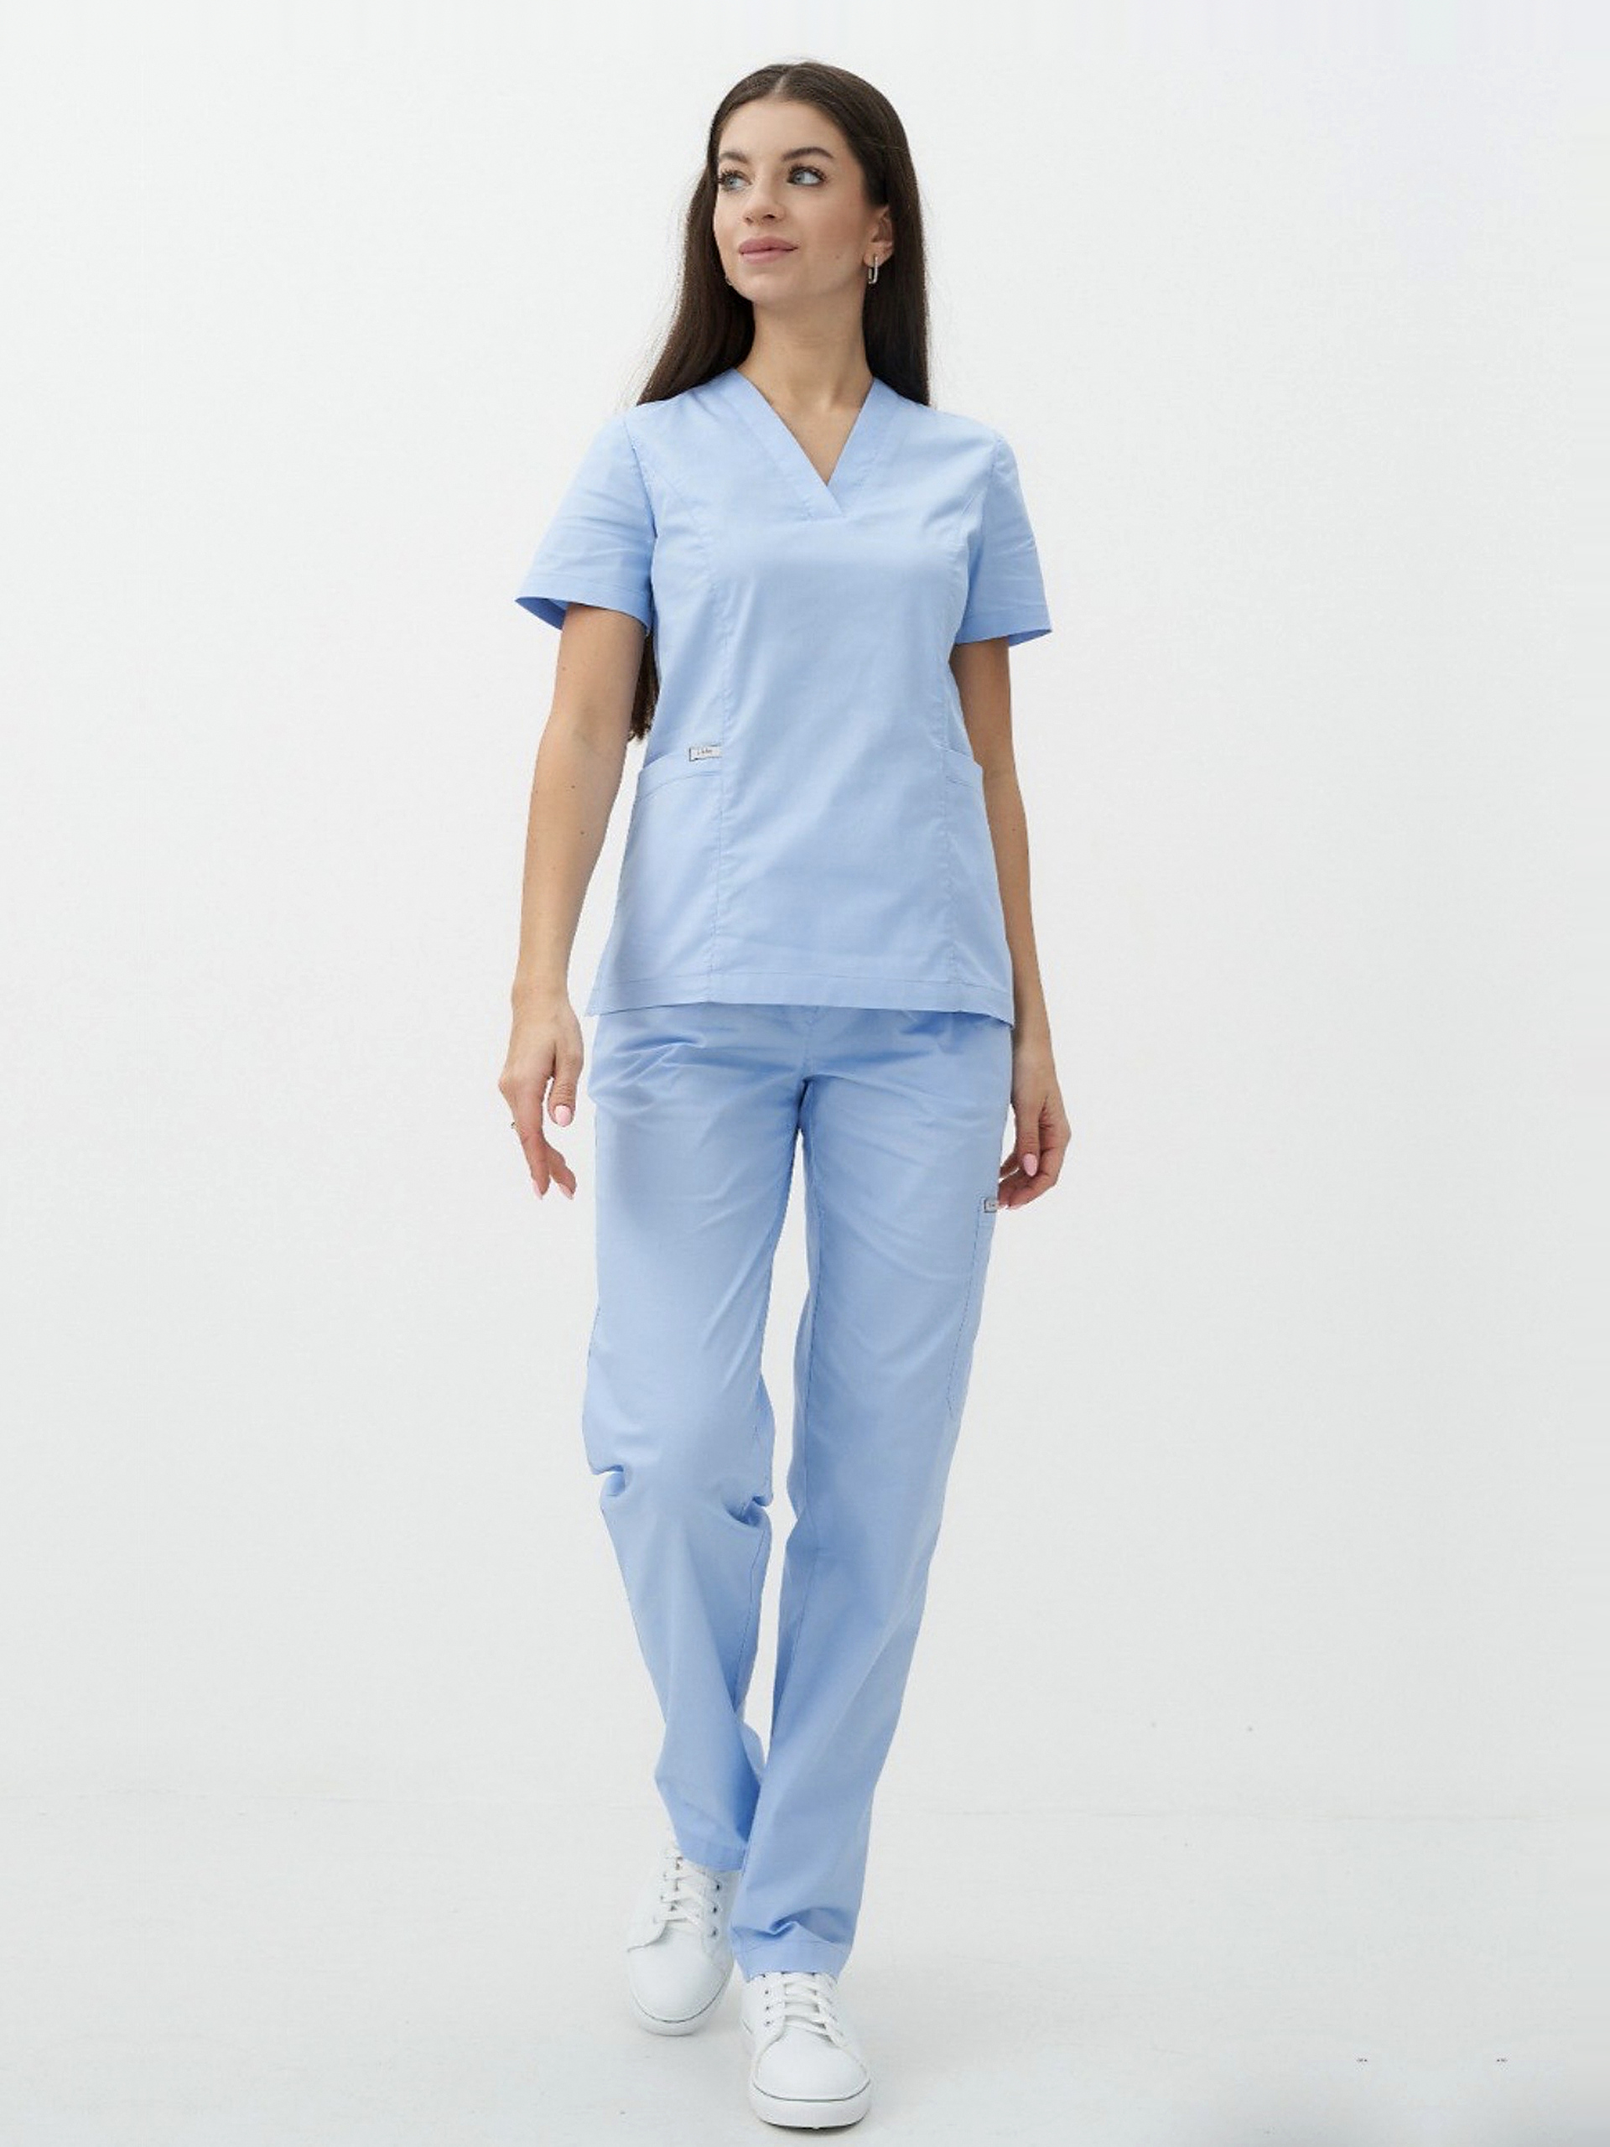
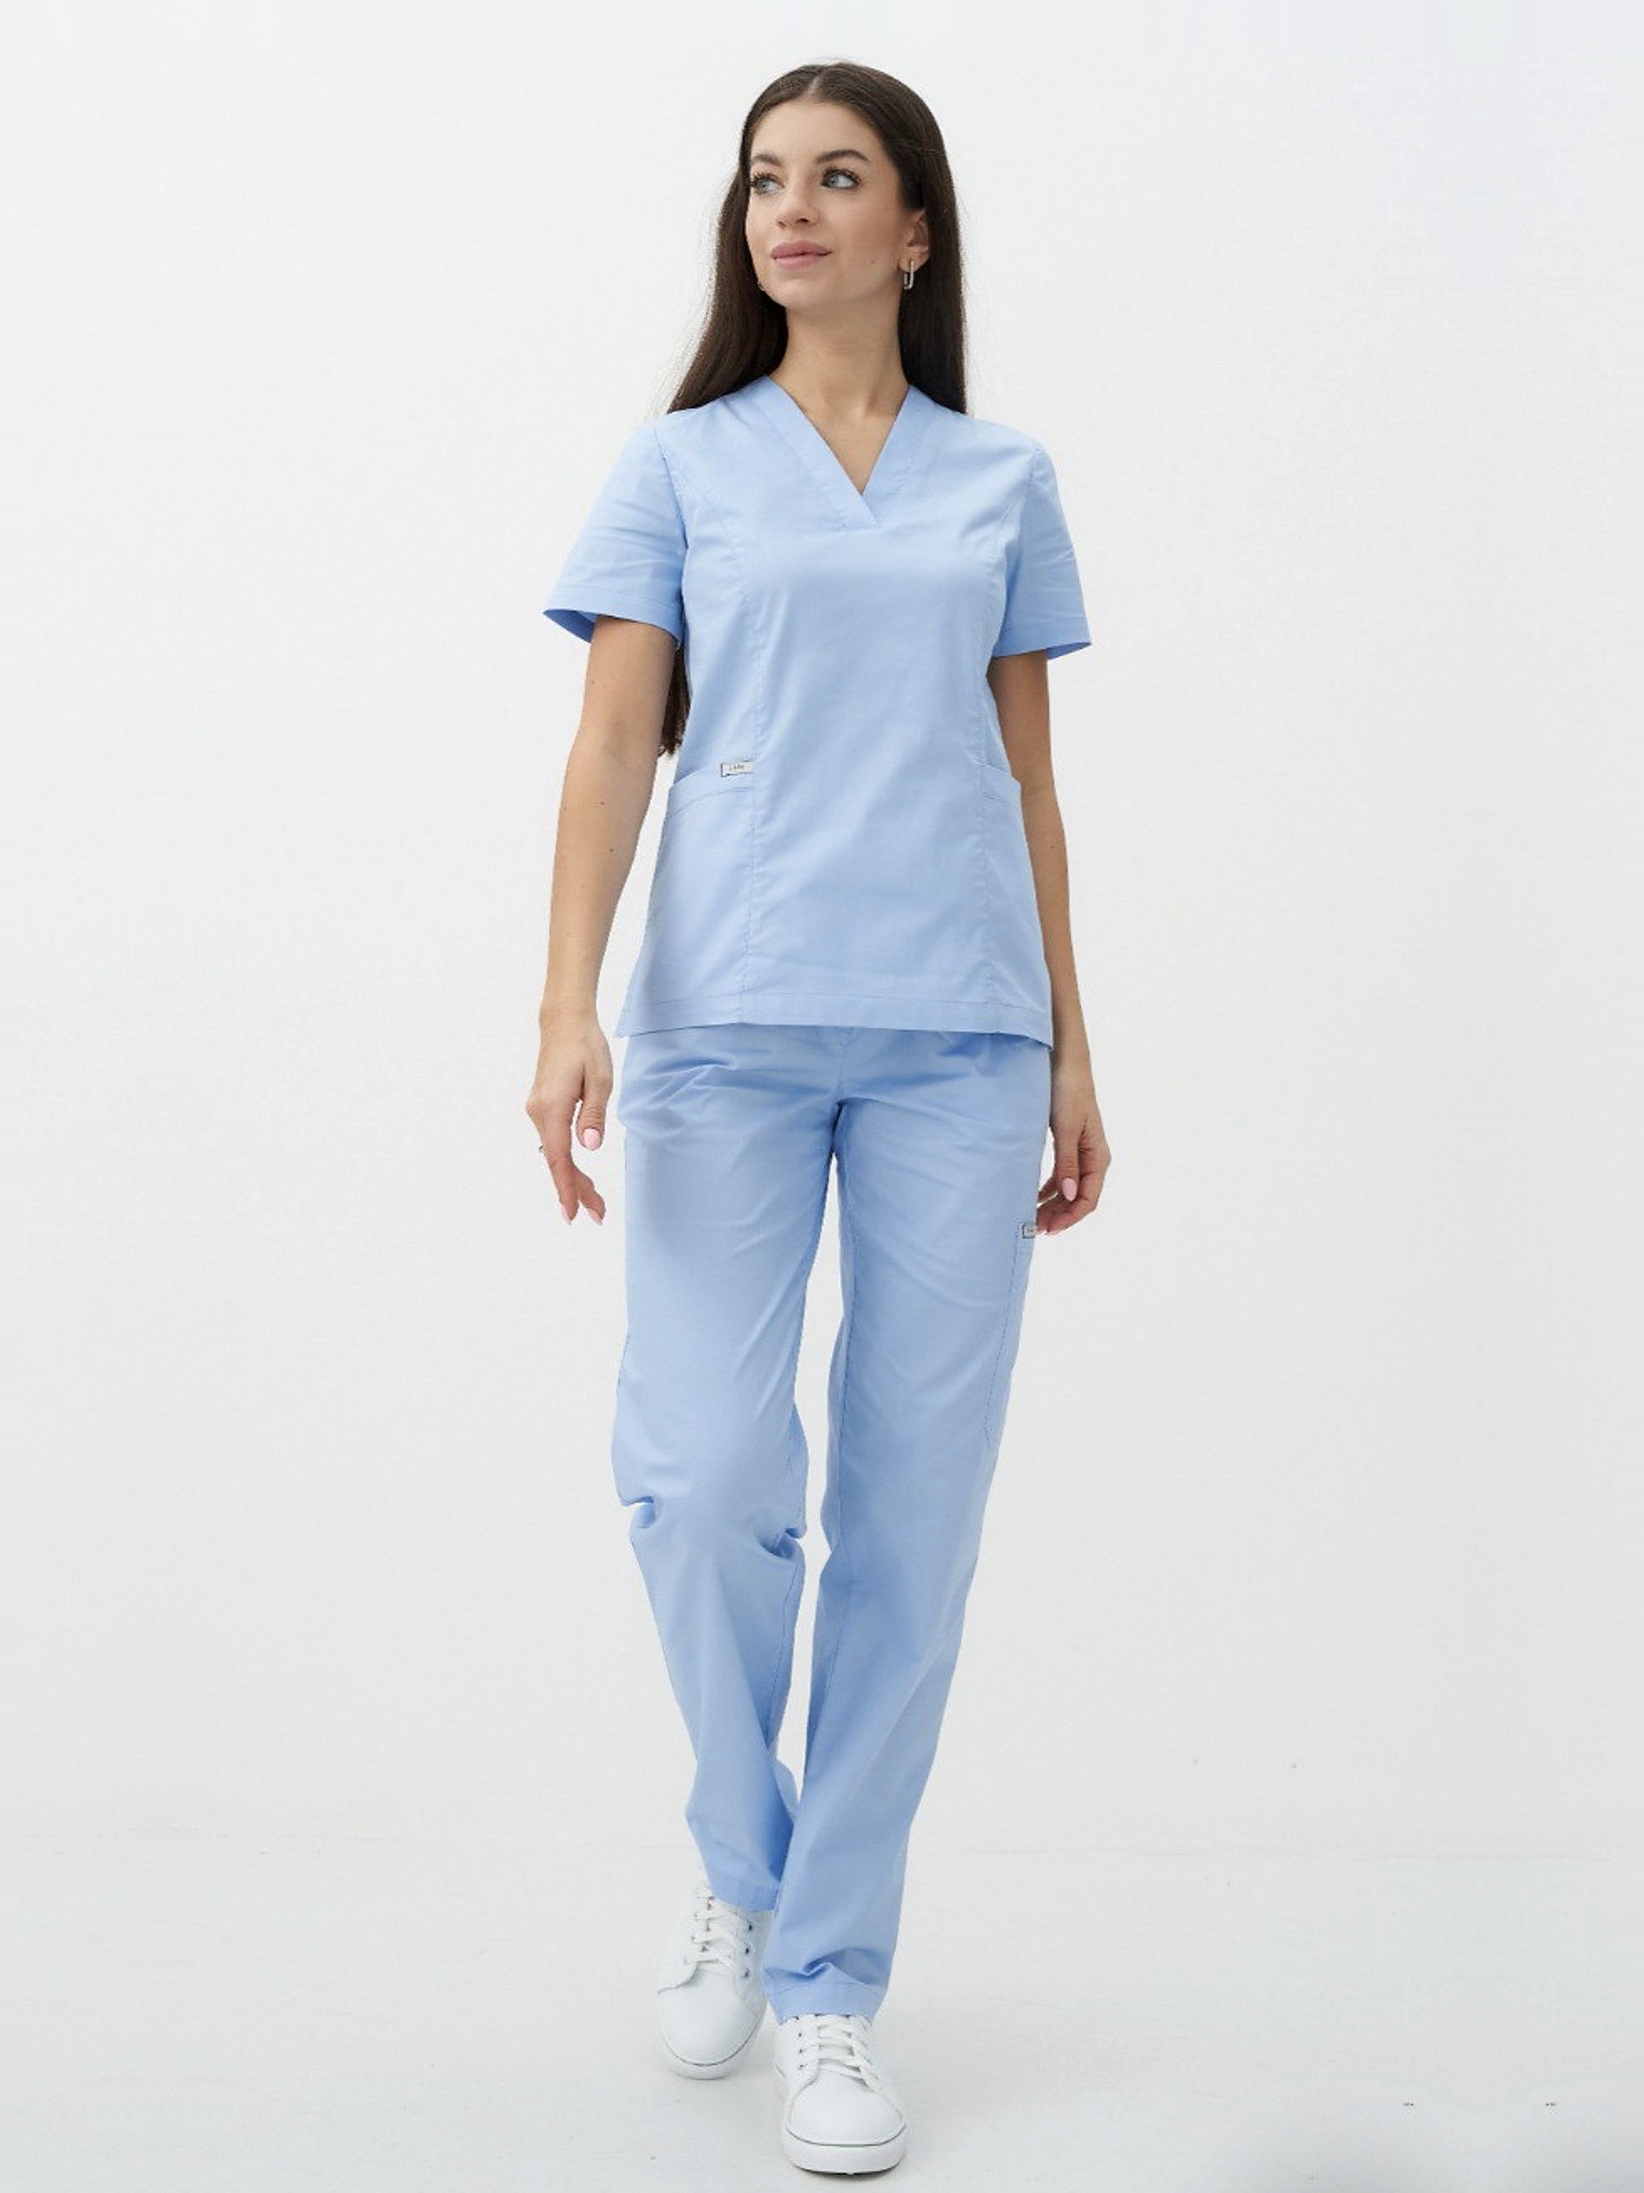
Stop resampling the photos, and fix the pale streak above the head
Two problems with the delivered files.

The frame was grown and then resampled back to 1920x2560, which touched every
pixel of the picture: measured detail energy drifted either way (photo 4 lost
3%, photo 7 gained 5% as ringing). The margin is now added by padding alone -
the photo keeps its own pixels and the frame grows to 1961x2615, same 3:4.
--exact restores the old resampling behaviour for when the delivered file has
to keep exact dimensions.

The strip also came out pale right above the head. JPEG ringing leaves a bright
fringe on the background columns that touch a dark hairline, and those columns
were being used as the anchor colour for the whole synthesised strip. The
anchor now ignores any column within 16px of the subject and takes a median
rather than a mean. On photo 7 the peak above the strip's own median drops from
+15.2 to +4.6 levels, in line with the untouched frames.

Pixel error against the originals is now 0.25-0.52 levels, i.e. the JPEG
re-encode alone.

Claude-Session: https://claude.ai/code/session_01JHcE1fAS6ZLX1B7gE1H4Fj

diff --git a/scripts/top_margin.py b/scripts/top_margin.py
@@ -1,14 +1,17 @@
 """Add a small strip of background above the subject.
 
-Usage:  python3 scripts/top_margin.py IN OUT [--px 55] [--no-fit]
+Usage:  python3 scripts/top_margin.py IN OUT [--px 55] [--exact] [--no-fit]
 
 The strip is synthesised from the studio background that is already in the
 frame: a per-column anchor colour taken from the real top rows, a vertical
 gradient measured down the columns that stay clear of the subject, and grain
 matched to the background's own noise.  The sides are widened by the same
-proportion so the frame keeps its aspect ratio and the result is resampled
-back to the input size, so --px is the margin you get in the delivered file.
-Pass --no-fit to keep the enlarged canvas instead.
+proportion so the aspect ratio holds, and the photo itself is left alone —
+every original pixel keeps its place, so the frame grows by --px.
+
+--exact resamples back to the input size instead.  That costs sharpness across
+the whole picture, so use it only when the delivered file has to keep exactly
+the original dimensions.  --no-fit skips the side padding.
 """
 import sys
 import numpy as np
@@ -58,14 +61,24 @@ def column_slopes(A, depth):
     return out
 
 
-def anchors(A, depth):
-    """Colour of the real top edge per column, with blocked columns filled in."""
+def anchors(A, depth, guard=16):
+    """Colour of the real top edge per column, with blocked columns filled in.
+
+    Columns next to the subject are dropped as well: JPEG ringing along a dark
+    hairline leaves a bright fringe there, and anchoring on it paints a pale
+    streak up the whole strip.
+    """
     W, C = A.shape[1], A.shape[2]
     valid = depth >= 3
+    keep = np.ones(W, bool)                       # erode by `guard` columns
+    run = np.cumsum(np.r_[0, valid.astype(int)])
+    for i in range(W):
+        a, b = max(0, i - guard), min(W, i + guard + 1)
+        keep[i] = (run[b] - run[a]) == (b - a)
     out = np.zeros((W, C))
     for ch in range(C):
-        b = A[:3, :, ch].mean(axis=0)
-        out[:, ch] = gauss1d(fill_invalid(b, valid), 4)
+        b = np.median(A[:3, :, ch], axis=0)
+        out[:, ch] = gauss1d(fill_invalid(b, keep), 8)
     return out
 
 
@@ -121,7 +134,29 @@ def subject_cols(A, depth):
     return (int(blocked.min()), int(blocked.max())) if len(blocked) else (0, A.shape[1] - 1)
 
 
-def process(src, dst, px=DEFAULT_PX, fit=True):
+def pad(A, depth, px, fit=True):
+    """Grow the frame by `px` at the top, keeping the aspect ratio."""
+    H, W, _ = A.shape
+    B = extend_top(A, px, depth)
+    if fit:
+        side = int(round((H + px) * W / float(H))) - W
+        left = side // 2                          # keep the subject centred as shot
+        B = extend_side(extend_side(B, left, True), side - left, False)
+    return B
+
+
+def save(B, dst, size=None):
+    out = Image.fromarray(np.clip(np.rint(B), 0, 255).astype(np.uint8))
+    if size is not None:
+        out = out.resize(size, Image.LANCZOS)
+    if dst.lower().endswith(('.jpg', '.jpeg')):
+        out.save(dst, quality=98, subsampling=0)
+    else:
+        out.save(dst)
+    return out
+
+
+def process(src, dst, px=DEFAULT_PX, fit=True, exact=False):
     im = Image.open(src).convert('RGB')
     A = np.asarray(im).astype(np.float64)
     H, W, _ = A.shape
@@ -130,24 +165,9 @@ def process(src, dst, px=DEFAULT_PX, fit=True):
     if clear < 3:
         raise SystemExit(f"{src}: the subject touches the top edge, nothing to sample")
 
-    # the strip shrinks when the frame is resampled back, so oversize it first
-    T = int(round(px * H / float(H - px))) if fit else px
-    B = extend_top(A, T, depth)
-
-    if fit:                                        # widen so W/H is unchanged
-        side = int(round(T * W / float(H)))
-        c0, c1 = subject_cols(A, depth)
-        lm, rm = c0, W - c1
-        left = int(round(side * lm / float(lm + rm))) if lm + rm else side // 2
-        B = extend_side(extend_side(B, left, True), side - left, False)
-
-    out = Image.fromarray(np.clip(np.rint(B), 0, 255).astype(np.uint8))
-    if fit:
-        out = out.resize((W, H), Image.LANCZOS)
-    if dst.lower().endswith(('.jpg', '.jpeg')):
-        out.save(dst, quality=97, subsampling=0)
-    else:
-        out.save(dst)
+    T = int(round(px * H / float(H - px))) if exact else px
+    B = pad(A, depth, T, fit)
+    out = save(B, dst, (W, H) if exact else None)
 
     V = np.asarray(Image.open(dst).convert('RGB')).astype(np.float64)
     print(f"{dst}: +{T}px strip, grain={bg_noise(A, depth):.2f}, {W}x{H} -> {out.size[0]}x{out.size[1]}"
@@ -156,12 +176,14 @@ def process(src, dst, px=DEFAULT_PX, fit=True):
 
 if __name__ == '__main__':
     argv = sys.argv[1:]
-    px, fit, args = DEFAULT_PX, True, []
+    px, fit, exact, args = DEFAULT_PX, True, False, []
     i = 0
     while i < len(argv):
         a = argv[i]
         if a == '--no-fit':
             fit = False
+        elif a == '--exact':
+            exact = True
         elif a.startswith('--px='):
             px = int(a.split('=', 1)[1])
         elif a == '--px':
@@ -174,4 +196,4 @@ if __name__ == '__main__':
         i += 1
     if len(args) != 2:
         raise SystemExit(__doc__)
-    process(args[0], args[1], px=px, fit=fit)
+    process(args[0], args[1], px=px, fit=fit, exact=exact)

diff --git a/scripts/transplant_crown.py b/scripts/transplant_crown.py
@@ -81,7 +81,7 @@ def run(tgt_path, ref_path, dst, px=tm.DEFAULT_PX):
 
     apex = (s * yr[yr >= 0].min() + dy)
     crown = int(np.ceil(max(0.0, -apex))) + 6
-    Tm = int(round(px * H / float(H - px)))
+    Tm = px
     N = Tm + crown
 
     depth = np.maximum(tm.background_depth(T), 1)
@@ -112,17 +112,12 @@ def run(tgt_path, ref_path, dst, px=tm.DEFAULT_PX):
     a = np.clip(Aw, 0, 1) * w
     B[:N + 320] = Rw * a[..., None] + B[:N + 320] * (1 - a[..., None])
 
-    side = int(round(N * W / float(H)))
-    c0, c1 = tm.subject_cols(T, depth)
-    lm, rm = c0, W - c1
-    left = int(round(side * lm / float(lm + rm))) if lm + rm else side // 2
+    # the rebuilt crown needs `crown` rows of its own; the margin sits above it
+    B = B[crown - (N - Tm - crown):] if False else B
+    side = int(round((H + N) * W / float(H))) - W
+    left = side // 2                                  # keep the subject centred
     B = tm.extend_side(tm.extend_side(B, left, True), side - left, False)
-
-    out = Image.fromarray(np.clip(np.rint(B), 0, 255).astype(np.uint8))
-    out = out.resize((W, int(round(out.size[1] * W / out.size[0]))), Image.LANCZOS)
-    out = out.crop((0, out.size[1] - H, W, out.size[1]))
-    out.save(dst, quality=97, subsampling=0) if dst.lower().endswith(('.jpg', '.jpeg')) \
-        else out.save(dst)
+    out = tm.save(B, dst)
 
     V = np.asarray(Image.open(dst).convert('RGB')).astype(np.float64)
     yv = outline(matte(V))
